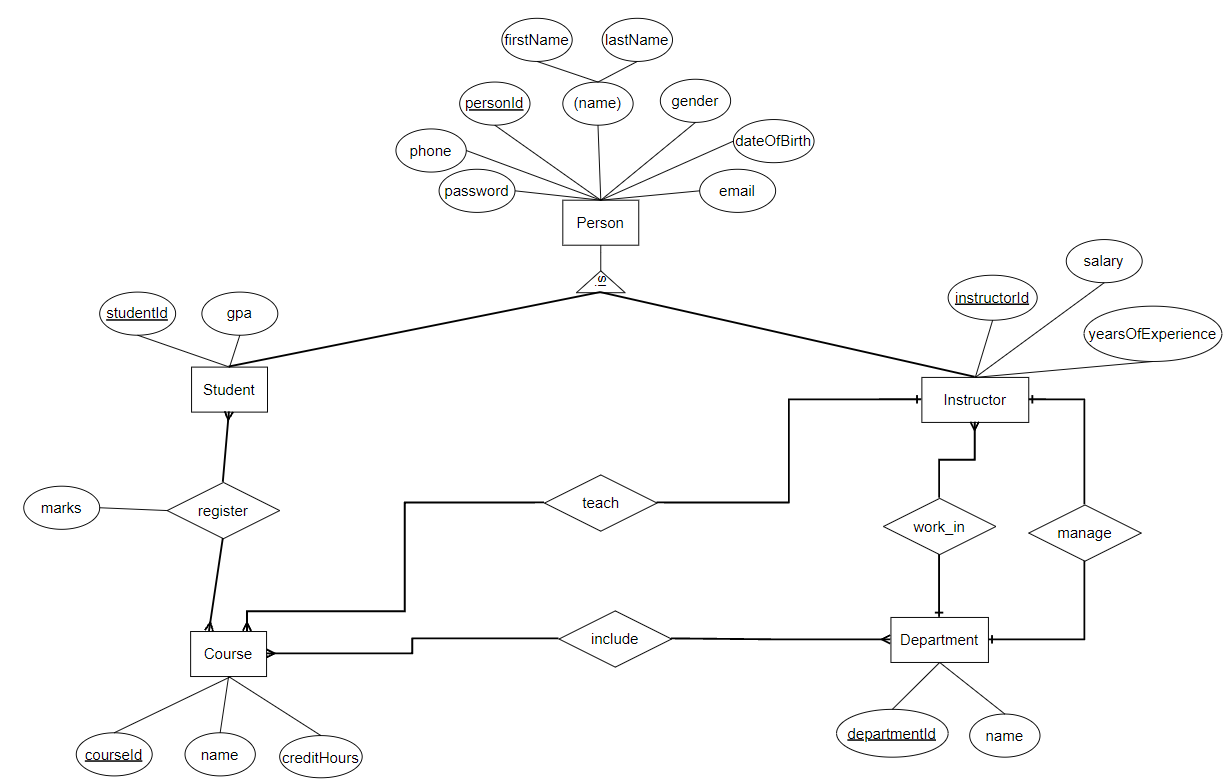
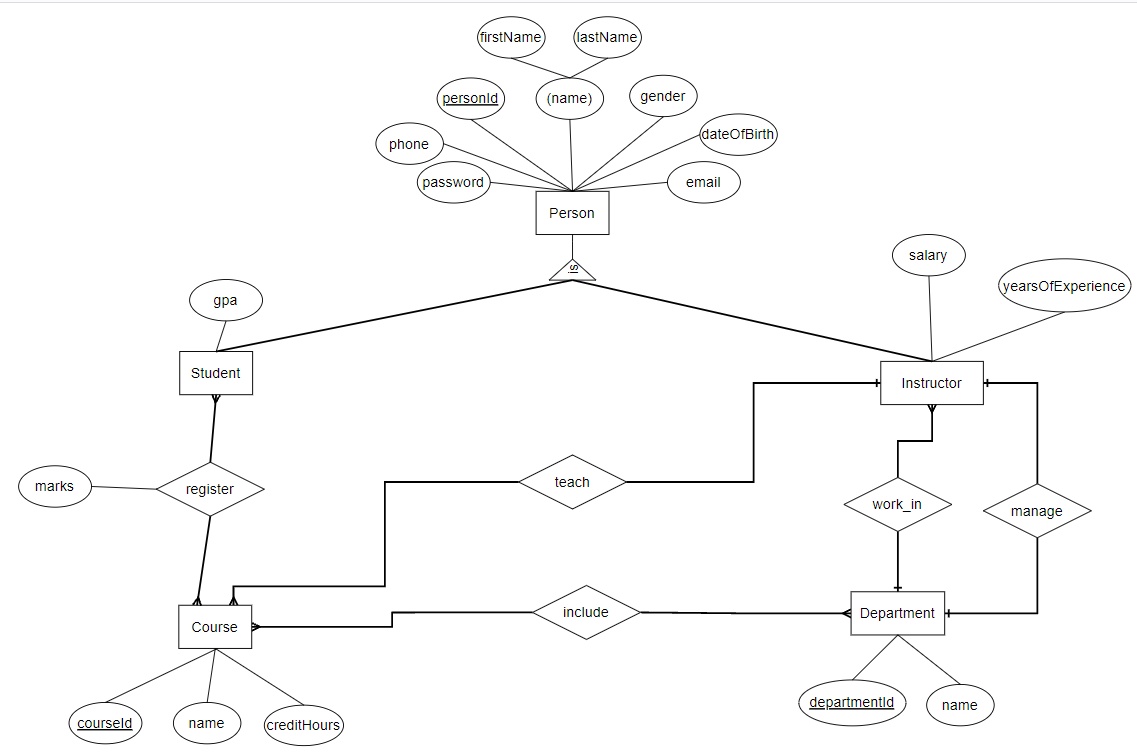
fixed inheritance

diff --git a/src/main/java/com/ejada/university/entity/Instructor.java b/src/main/java/com/ejada/university/entity/Instructor.java
@@ -5,12 +5,8 @@ import java.util.List;
 
 @Table(name = "instructor")
 @Entity
+@PrimaryKeyJoinColumn(name = "instructor_id")
 public class Instructor extends Person {
-
-    @Id
-    @GeneratedValue(strategy = GenerationType.AUTO)
-    @Column(name = "instructor_id")
-    private int instructorId;
 
     @Column(name = "salary")
     private double salary;
@@ -18,9 +14,6 @@ public class Instructor extends Person {
     @Column(name = "years_of_experience")
     private int yearsOfExperience;
 
-    @OneToOne(fetch = FetchType.EAGER)
-    @JoinColumn(name = "person_id")
-    private Person person;
 
     @OneToMany(mappedBy = "instructor", fetch = FetchType.LAZY)
     private List<Course> courses;
@@ -29,15 +22,6 @@ public class Instructor extends Person {
     @JoinColumn(name = "department_id")
     private Department department;
 
-
-
-    public int getInstructorId() {
-        return instructorId;
-    }
-
-    public void setInstructorId(int instructorId) {
-        this.instructorId = instructorId;
-    }
 
     public double getSalary() {
         return salary;
@@ -53,14 +37,6 @@ public class Instructor extends Person {
 
     public void setYearsOfExperience(int yearsOfExperience) {
         this.yearsOfExperience = yearsOfExperience;
-    }
-
-    public Person getPerson() {
-        return person;
-    }
-
-    public void setPerson(Person person) {
-        this.person = person;
     }
 
     public List<Course> getCourses() {

diff --git a/src/main/java/com/ejada/university/entity/Student.java b/src/main/java/com/ejada/university/entity/Student.java
@@ -5,32 +5,16 @@ import java.util.List;
 
 @Table(name = "student")
 @Entity
+@PrimaryKeyJoinColumn(name = "student_id")
 public class Student extends Person{
-
-    @Id
-    @GeneratedValue(strategy = GenerationType.AUTO)
-    @Column(name = "student_id")
-    private int studentId;
 
     @Column(name = "gpa")
     private double gpa;
 
-    @OneToOne(fetch = FetchType.EAGER)
-    @JoinColumn(name = "person_id")
-    private Person person;
 
     @OneToMany(mappedBy = "student", fetch = FetchType.LAZY)
     private List<Registration> registrations;
 
-
-
-    public int getStudentId() {
-        return studentId;
-    }
-
-    public void setStudentId(int studentId) {
-        this.studentId = studentId;
-    }
 
     public double getGpa() {
         return gpa;
@@ -38,14 +22,6 @@ public class Student extends Person{
 
     public void setGpa(double gpa) {
         this.gpa = gpa;
-    }
-
-    public Person getPerson() {
-        return person;
-    }
-
-    public void setPerson(Person person) {
-        this.person = person;
     }
 
     public List<Registration> getRegistrations() {

diff --git a/src/main/java/com/ejada/university/entity/Person.java b/src/main/java/com/ejada/university/entity/Person.java
@@ -1,11 +1,14 @@
 package com.ejada.university.entity;
 
+import com.fasterxml.jackson.annotation.JsonFormat;
+
 import javax.persistence.*;
 import java.util.Date;
 
 
 @Table(name = "person")
 @Entity
+@Inheritance(strategy = InheritanceType.JOINED)
 public abstract class Person {
 
     @Id
@@ -23,6 +26,7 @@ public abstract class Person {
     private String gender;
 
     @Column(name = "date_of_birth")
+    @JsonFormat(shape=JsonFormat.Shape.STRING, pattern="dd-MM-yyyy")
     private Date dateOfBirth;
 
     @Column(name = "phone")

diff --git a/src/main/java/com/ejada/university/controller/InstructorController.java b/src/main/java/com/ejada/university/controller/InstructorController.java
@@ -34,7 +34,7 @@ public class InstructorController {
     public Instructor addInstructor(@RequestBody Instructor instructor){
 
         // I set id by zero in case that id is passed to force saving
-        instructor.setInstructorId(0);
+        instructor.setPersonId(0);
         instructorService.save(instructor);
 
         return instructor;

diff --git a/src/main/java/com/ejada/university/controller/StudentController.java b/src/main/java/com/ejada/university/controller/StudentController.java
@@ -34,7 +34,7 @@ public class StudentController {
     public Student addStudent(@RequestBody Student student){
 
         // I set id by zero in case that id is passed to force saving
-        student.setStudentId(0);
+        student.setPersonId(0);
         studentService.save(student);
 
         return student;
